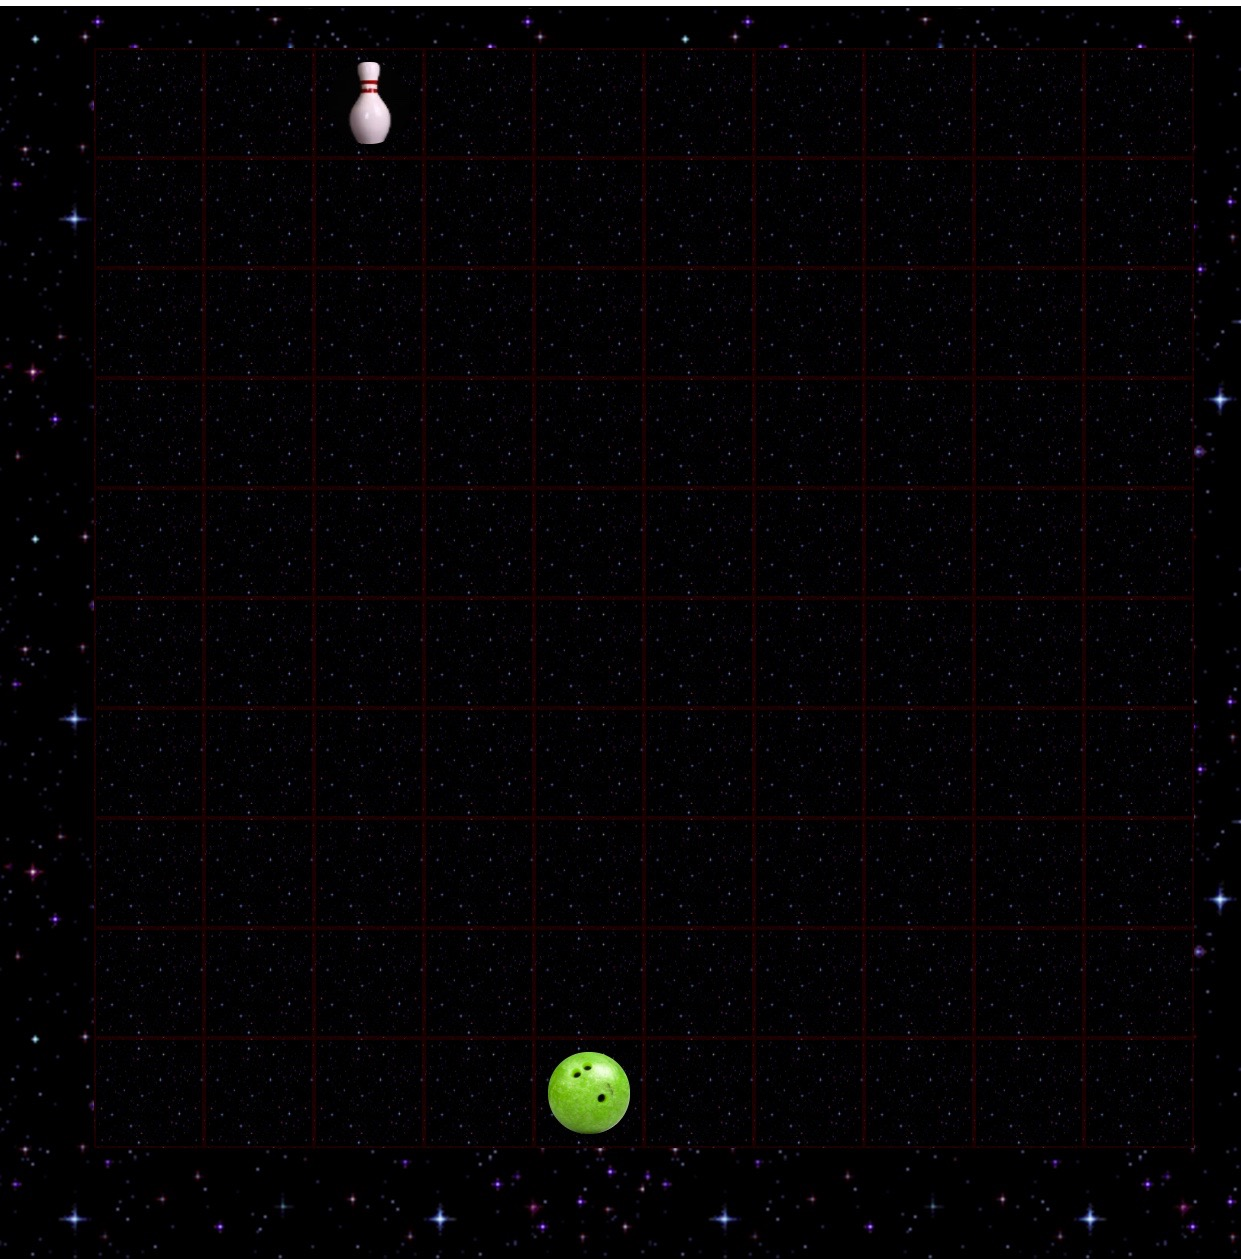
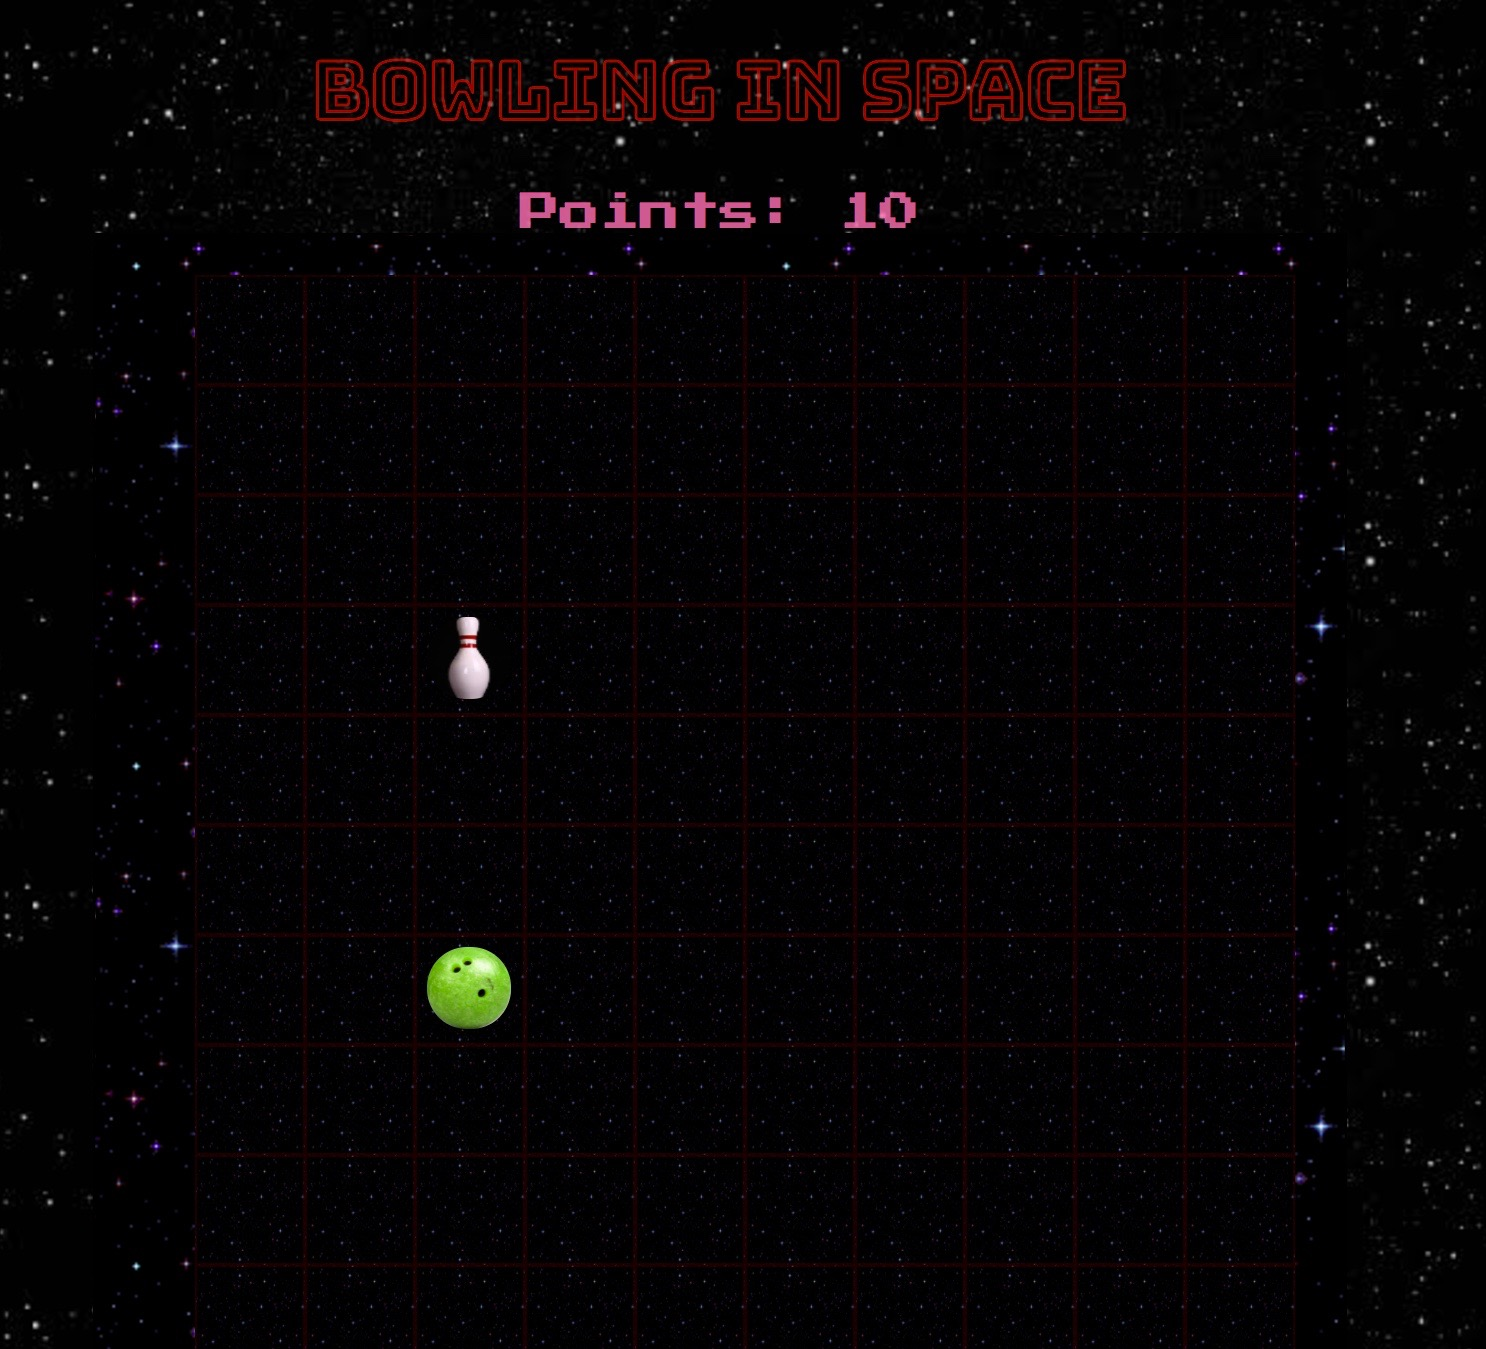
Swap pics

diff --git a/index.html b/index.html
@@ -3,12 +3,14 @@
   <head>
     <meta charset="utf-8">
     <title>Space Bowling 3000</title>
+    <link href="https://fonts.googleapis.com/css?family=Bungee+Outline" rel="stylesheet">
+    <link href="https://fonts.googleapis.com/css?family=Bungee+Outline|Monoton|Press+Start+2P|Syncopate" rel="stylesheet">
     <link rel="stylesheet" href="./main.css">
     <script type="text/javascript" src="./main.js"></script>
   </head>
   <body>
+    <h1>Bowling In Space</h1>
     <div id="points" class="">
-
     </div>
     <main id="root">
     </main>

diff --git a/main.css b/main.css
@@ -1,10 +1,21 @@
+body {
+  text-align: center;
+  background: url('./images/stars3.jpeg');
+  color: #fff;
+}
+
 #root {
   height: 500px;
   width: 500px;
   background: url('./images/stars1.jpg');
   border: 1px solid #000;
+  margin: auto;
 }
 
+h1 {
+  font-family: 'Bungee Outline', cursive;
+  color: rgba(255, 0, 0, 0.6);
+}
 
 ul {
   list-style: none;
@@ -51,4 +62,9 @@ li {
   background-position: center;
   border-radius: 50%;
   margin: 4px;
+}
+
+.points {
+  font-family: 'Press Start 2P', cursive;
+  color: rgba(255,115,180,0.8);
 }

diff --git a/main.js b/main.js
@@ -149,7 +149,9 @@ function play(){
 
 document.addEventListener("DOMContentLoaded", () => {
   showPoints = document.getElementById("points");
+  showPoints.setAttribute('class', 'points');
   showPoints.innerText = `Points: ${points}`;
+
   play();
 
 });
